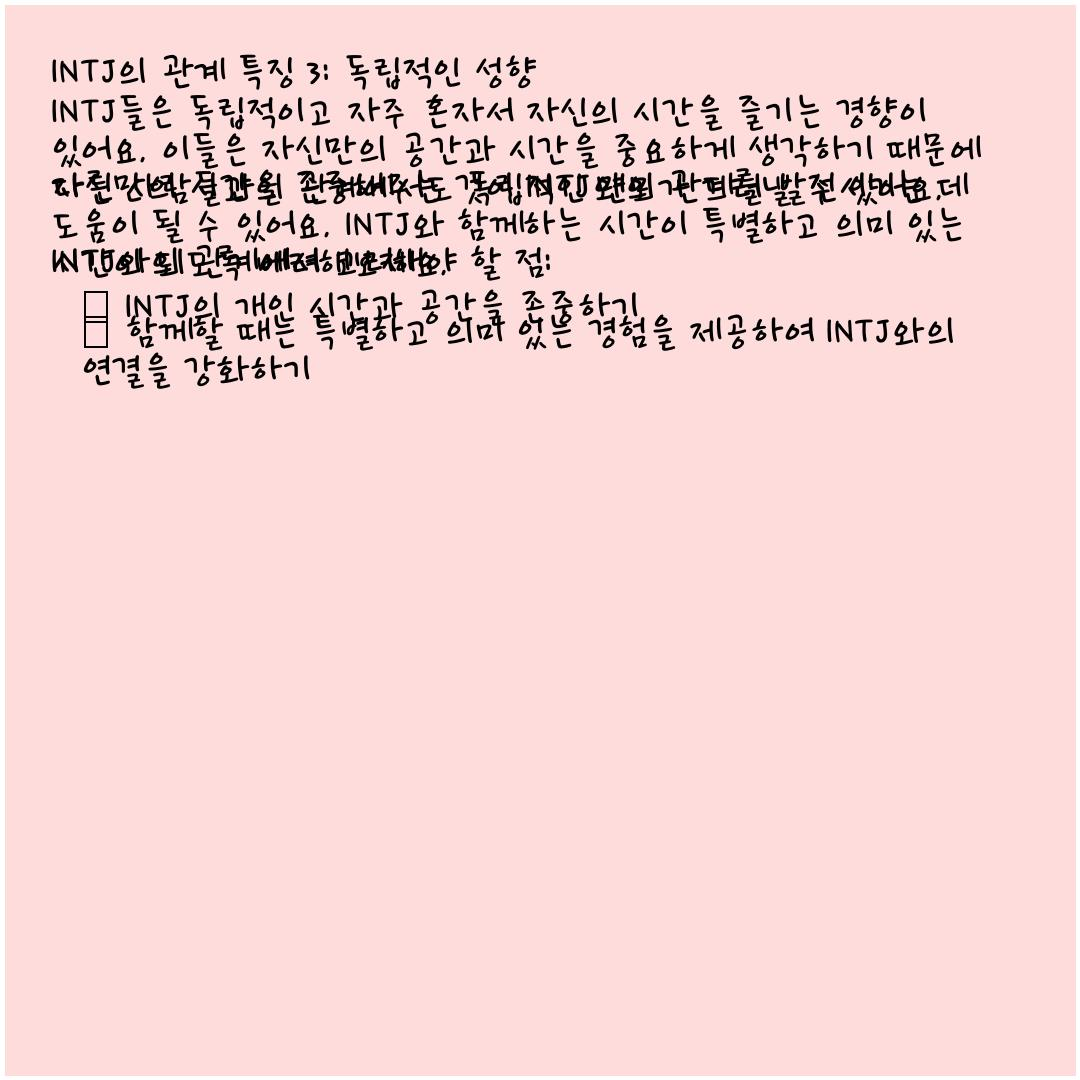
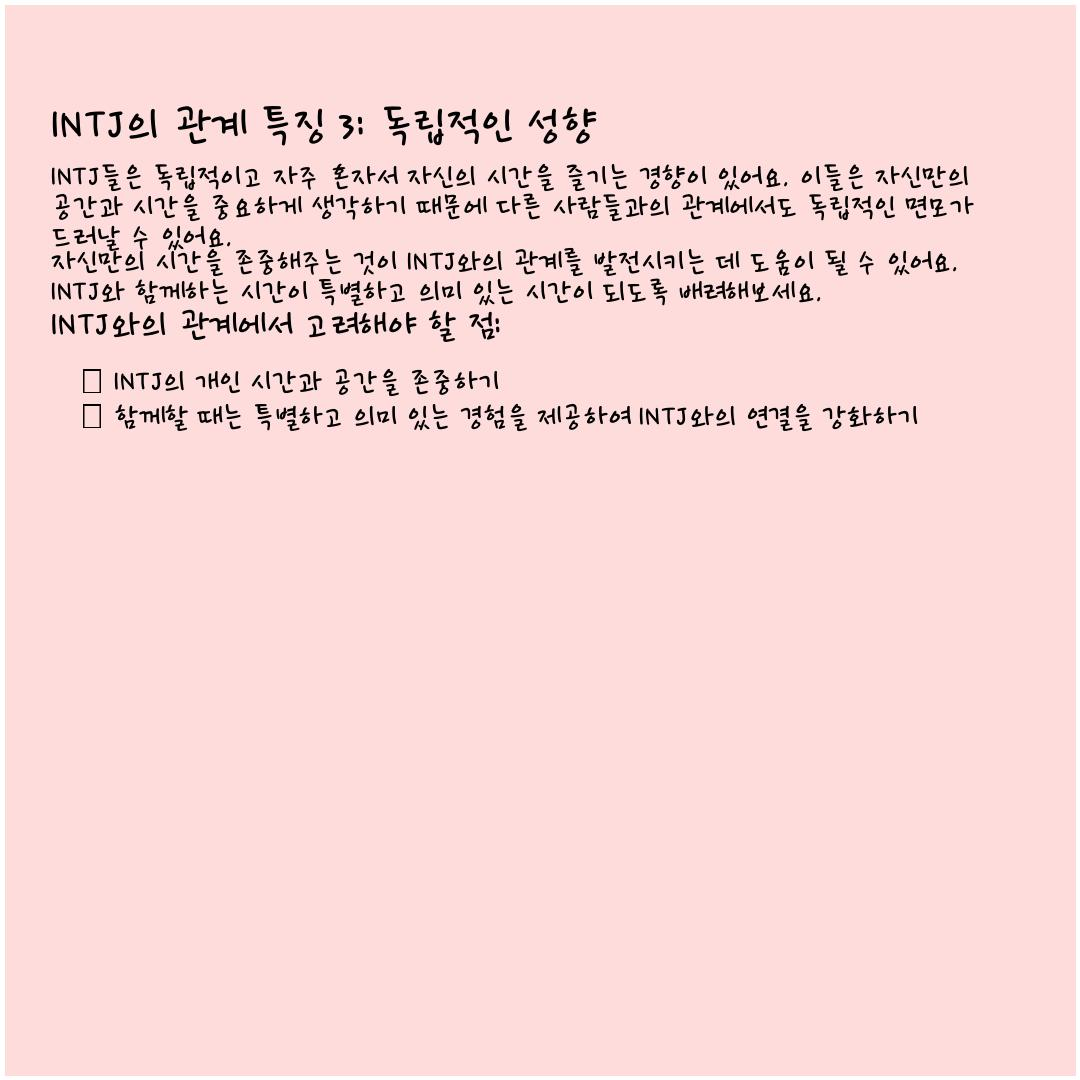
pil패키지 에러 해결중

Changed region(s): [[0.0306, 0.0306, 0.9167, 0.3972]]

diff --git a/generateCardnewsContentImageByContent.py b/generateCardnewsContentImageByContent.py
@@ -1,8 +1,8 @@
 from bs4 import BeautifulSoup
 from PIL import Image, ImageDraw, ImageFont
-from config import FONT_PATH, IMAGE_SIZE, BACKGROUND_COLOR, TEXT_COLOR, BORDER_COLOR, BORDER_WIDTH
+from config import BASE_FONT_SIZE, FONT_PATH, IMAGE_SIZE, BACKGROUND_COLOR, TEXT_COLOR, BORDER_COLOR, BORDER_WIDTH
 
-def generateCardnewsContentImageByContent(html_content, output_image_path):
+def generateCardnewsContentImageByContent(html_content, ImageCount):
     # HTML 파싱
     soup = BeautifulSoup(html_content, 'html.parser')
 
@@ -12,43 +12,47 @@ def generateCardnewsContentImageByContent(html_content, output_image_path):
     draw = ImageDraw.Draw(image)
 
     # 사용할 폰트 설정
-    font_size = 40
-    font = ImageFont.truetype(FONT_PATH, font_size)
+    base_font_size = 30  # 전체적인 글씨 크기를 크게 조절
+    font = ImageFont.truetype(FONT_PATH, base_font_size)
 
     # HTML 태그에 따라 텍스트 그리기
-    y_position = 50  # 시작 위치
+    y_position = 100  # 시작 위치
     max_text_width = image_width - 100  # 텍스트가 그려질 최대 가로 길이
 
     for tag in soup.find_all(['h2', 'p', 'h3', 'ul', 'li']):
-        if tag.name == 'h2':
+        tag_name = tag.name
+        tag_font_size = get_font_size(tag_name, base_font_size)  # 각 태그별로 글씨 크기 계산
+        font = ImageFont.truetype(FONT_PATH, tag_font_size)  # 태그별로 폰트 크기 설정
+
+        if tag_name == 'h2':
             text = tag.text
             wrapped_text = wrap_text(draw, text, font, max_text_width)
             draw.text((50, y_position), wrapped_text, font=font, fill=TEXT_COLOR)
-            y_position += 40 + wrapped_text.count('\n') * 25  # 헤더 다음에 여백 추가
-        elif tag.name == 'h3':
+            y_position += 60 + wrapped_text.count('\n') * 25  # 헤더 다음에 여백 추가
+        elif tag_name == 'h3':
             text = tag.text
             wrapped_text = wrap_text(draw, text, font, max_text_width)
             draw.text((50, y_position), wrapped_text, font=font, fill=TEXT_COLOR)
-            y_position += 30 + wrapped_text.count('\n') * 25  # 소제목 다음에 여백 추가
-        elif tag.name == 'p':
+            y_position += 40 + wrapped_text.count('\n') * 25  # 소제목 다음에 여백 추가
+        elif tag_name == 'p':
             text = tag.text
             wrapped_text = wrap_text(draw, text, font, max_text_width)
             draw.text((50, y_position), wrapped_text, font=font, fill=TEXT_COLOR)
-            y_position += 25 + wrapped_text.count('\n') * 25  # 문단 다음에 여백 추가
-        elif tag.name == 'ul':
-            y_position += 15  # 리스트 전에 여백 추가
+            y_position += 35 + wrapped_text.count('\n') * 25  # 문단 다음에 여백 추가
+        elif tag_name == 'ul':
+            y_position += 20  # 리스트 전에 여백 추가
             for li_tag in tag.find_all('li'):
                 text = '• ' + li_tag.text
                 wrapped_text = wrap_text(draw, text, font, max_text_width - 30)  # 간격 고려
                 draw.text((80, y_position), wrapped_text, font=font, fill=TEXT_COLOR)
-                y_position += 25 + wrapped_text.count('\n') * 25  # 리스트 아이템 다음에 여백 추가
+                y_position += 35 + wrapped_text.count('\n') * 25  # 리스트 아이템 다음에 여백 추가
 
     # 테두리 그리기
     border_rect = [(0, 0), (image_width, image_height)]
     draw.rectangle(border_rect, outline=BORDER_COLOR, width=BORDER_WIDTH)
 
     # 이미지 저장
-    image.save(output_image_path)
+    image.save(f"{ImageCount}")
 
 def wrap_text(draw, text, font, max_width):
     """
@@ -70,17 +74,25 @@ def wrap_text(draw, text, font, max_width):
     lines.append(current_line)
     return '\n'.join(lines)
 
-# 예제 HTML
-html_content = '''
-<h2 data-ke-size="size26">INTJ의 관계 특징 3: 독립적인 성향</h2>
-<p data-ke-size="size16">INTJ들은 독립적이고 자주 혼자서 자신의 시간을 즐기는 경향이 있어요. 이들은 자신만의 공간과 시간을 중요하게 생각하기 때문에 다른 사람들과의 관계에서도 독립적인 면모가 드러날 수 있어요.</p>
-<p data-ke-size="size16">자신만의 시간을 존중해주는 것이 INTJ와의 관계를 발전시키는 데 도움이 될 수 있어요. INTJ와 함께하는 시간이 특별하고 의미 있는 시간이 되도록 배려해보세요.</p>
-<h3 data-ke-size="size23">INTJ와의 관계에서 고려해야 할 점:</h3>
-<ul data-ke-list-type="disc" style="list-style-type: disc;">
-<li>INTJ의 개인 시간과 공간을 존중하기</li>
-<li>함께할 때는 특별하고 의미 있는 경험을 제공하여 INTJ와의 연결을 강화하기</li>
-</ul>
-'''
+def get_font_size(tag_name, base_size):
+    """
+    태그별로 글씨 크기를 계산하는 함수
+    """
+    size_factors = {'h2': 1.5, 'h3': 1.2, 'p': 1.0, 'ul': 1.0, 'li': 1.0}
+    return int(base_size * size_factors.get(tag_name, 1.0))
 
-# 이미지 생성 및 저장
-generateCardnewsContentImageByContent(html_content, 'output_image.jpg')
+if __name__ == "__main__":
+    # 예제 HTML
+    html_content = '''
+    <h2 data-ke-size="size26">INTJ의 관계 특징 3: 독립적인 성향</h2>
+    <p data-ke-size="size16">INTJ들은 독립적이고 자주 혼자서 자신의 시간을 즐기는 경향이 있어요. 이들은 자신만의 공간과 시간을 중요하게 생각하기 때문에 다른 사람들과의 관계에서도 독립적인 면모가 드러날 수 있어요.</p>
+    <p data-ke-size="size16">자신만의 시간을 존중해주는 것이 INTJ와의 관계를 발전시키는 데 도움이 될 수 있어요. INTJ와 함께하는 시간이 특별하고 의미 있는 시간이 되도록 배려해보세요.</p>
+    <h3 data-ke-size="size23">INTJ와의 관계에서 고려해야 할 점:</h3>
+    <ul data-ke-list-type="disc" style="list-style-type: disc;">
+    <li>INTJ의 개인 시간과 공간을 존중하기</li>
+    <li>함께할 때는 특별하고 의미 있는 경험을 제공하여 INTJ와의 연결을 강화하기</li>
+    </ul>
+    '''
+
+    # 이미지 생성 및 저장
+    generateCardnewsContentImageByContent(html_content, 'output_image.jpg')

diff --git a/generateCardnewsContentImagesByUrl.py b/generateCardnewsContentImagesByUrl.py
@@ -1,4 +1,5 @@
 from divideContentsByH2Tag import divideContentsByH2Tag
+from generateCardnewsContentImageByContent import generateCardnewsContentImageByContent
 
 
 def generateCardnewsContentImages(blog_url):
@@ -6,8 +7,36 @@ def generateCardnewsContentImages(blog_url):
     
     
     # Step 2: Divide contents by h2 tag
-    dividedContents = divideContentsByH2Tag(html_source)
+    dividedContents = divideContentsByH2Tag(blog_url)
     
     # Step 3: Generate Cardnews Content Images
+    ImageCount = 1
     for content in dividedContents:
-        generateCardnewsContentImageByContent(content)
+        
+        generateCardnewsContentImageByContent(content,ImageCount)
+        ImageCount = ImageCount + 1 
+
+
+
+if __name__ == "__main__":
+    test_url = "https://giftedmbti.tistory.com/184"
+    generateCardnewsContentImages(test_url)
+
+
+# Traceback (most recent call last):
+#   File "/home/codespace/.python/current/lib/python3.10/site-packages/PIL/Image.py", line 2409, in save
+#     format = EXTENSION[ext]
+# KeyError: ''
+
+# The above exception was the direct cause of the following exception:
+
+# Traceback (most recent call last):
+#   File "/workspaces/CardNewsAutomation/generateCardnewsContentImagesByUrl.py", line 23, in <module>
+#     generateCardnewsContentImages(test_url)
+#   File "/workspaces/CardNewsAutomation/generateCardnewsContentImagesByUrl.py", line 16, in generateCardnewsContentImages
+#     generateCardnewsContentImageByContent(content,ImageCount)
+#   File "/workspaces/CardNewsAutomation/generateCardnewsContentImageByContent.py", line 55, in generateCardnewsContentImageByContent
+#     image.save(f"{ImageCount}")
+#   File "/home/codespace/.python/current/lib/python3.10/site-packages/PIL/Image.py", line 2412, in save
+#     raise ValueError(msg) from e
+# ValueError: unknown file extension: 

diff --git a/config.py b/config.py
@@ -9,6 +9,10 @@ TEXT_COLOR = (0, 0, 0)
 BORDER_COLOR = (255, 255, 255)
 BORDER_WIDTH = 5
 
+#CONTENT_CONSTANT
+BASE_FONT_SIZE = 30
+
+#BRANDING_CONSTANT
 BRANDING_CIRCLE_RADIUS = 200
 BRANDING_TEXT = "매일 MBTI 연애 팁을 올립니다.\n팔로우 하시고 매일 연애 팁 받아보세요."
 BRANDING_TEXT_FONT_SIZE = 50

diff --git a/divideContentsByH2Tag.py b/divideContentsByH2Tag.py
@@ -16,7 +16,7 @@ def divideContentsByH2Tag(blog_url):
     # Start dividing content
     temp_content = ""
     for tag in content_div:
-        print(f"{tag}\n\n")
+        # print(f"{tag}\n\n")
         if tag.name == 'h2':
             # Save the previous content if exists
             if temp_content:
